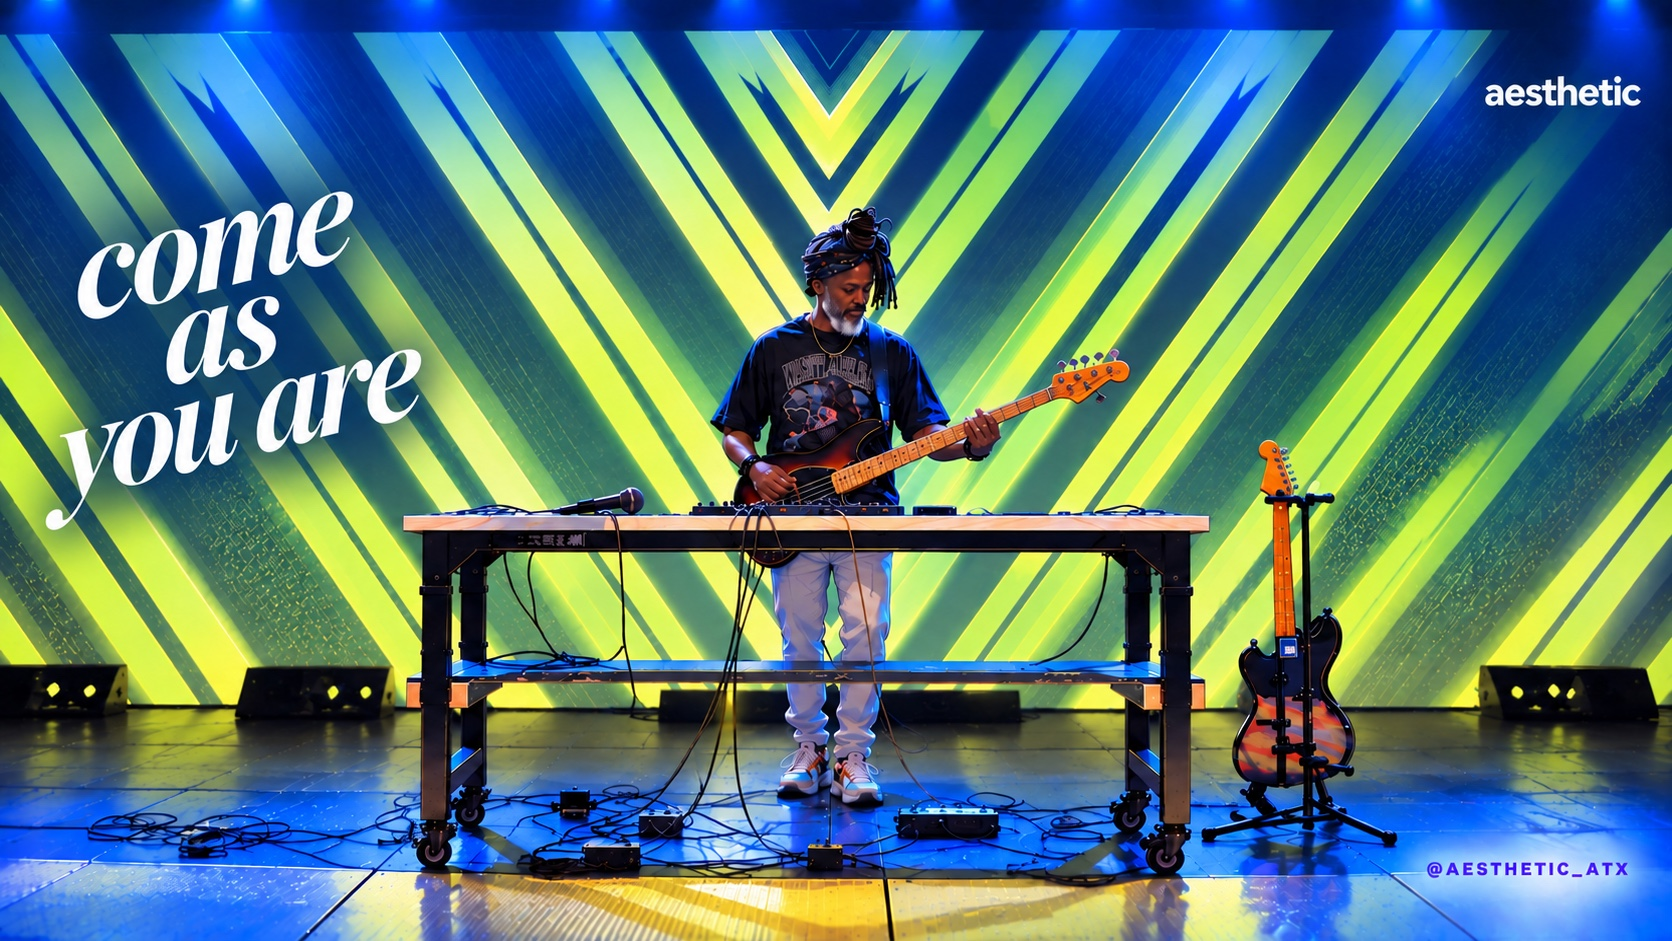
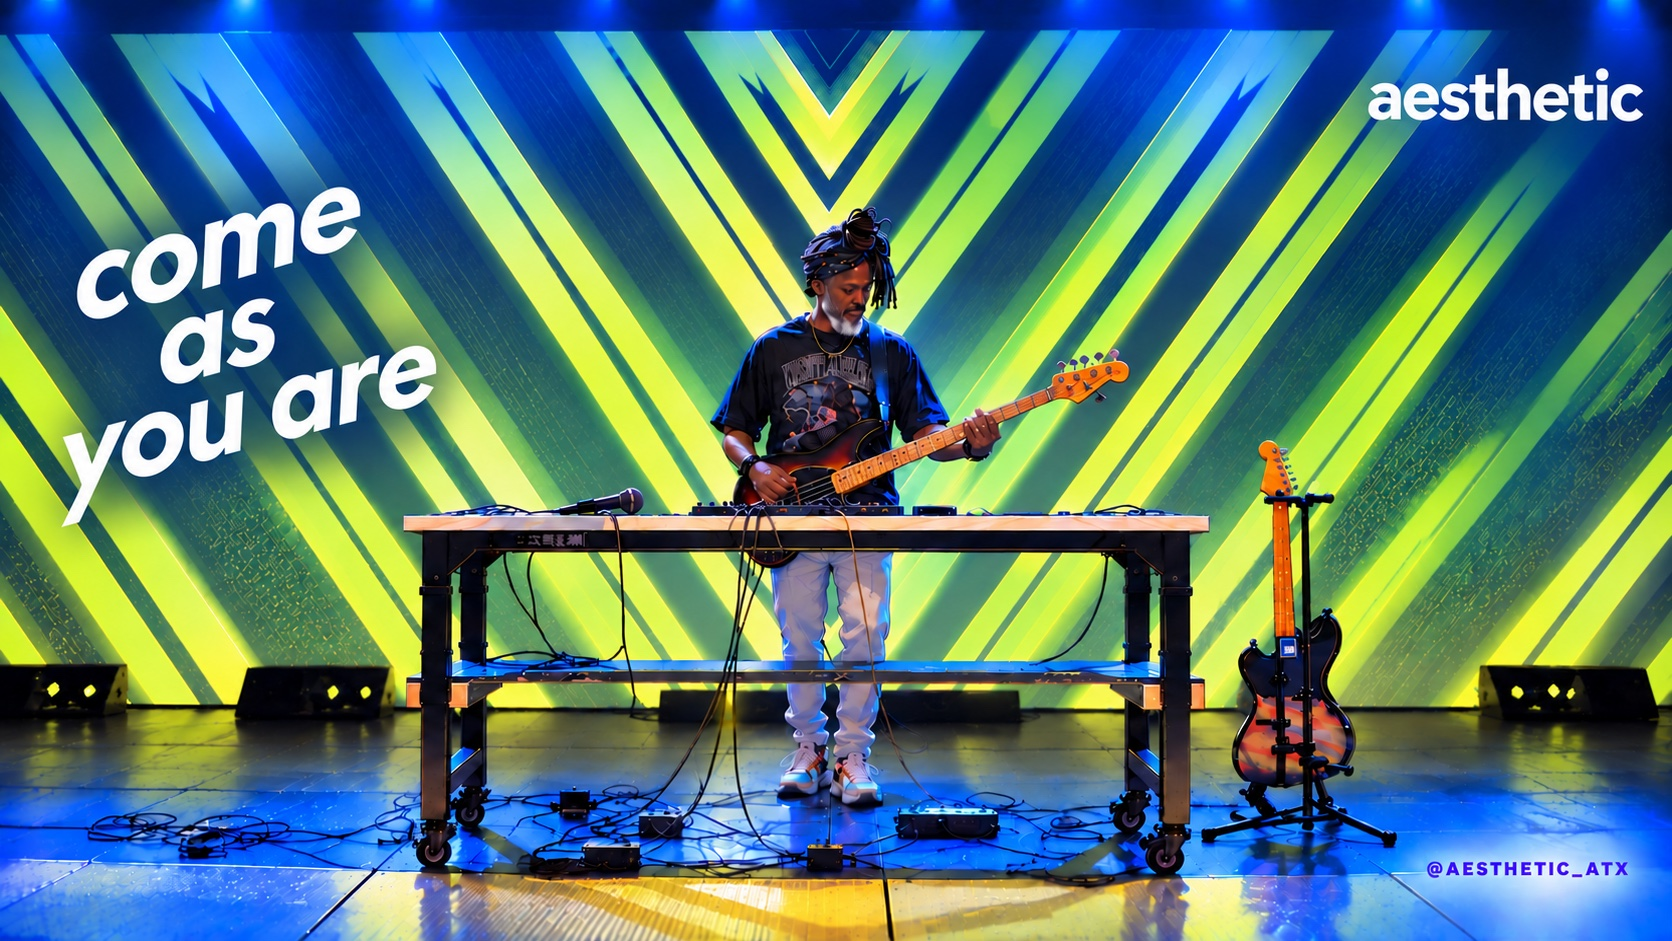
Hero: new photo plate with retyped lettering; anti-slop pass
The homepage hero image is replaced with "Hero Section Image (09/22).png"
(1672x941, same as before, so the plate and caption row are unchanged). The
church retyped "come as you are" and the wordmark in a sans face.

Anti-slop pass over all five pages against the brief's hard requirement:
no em dashes rendered, sentence case holds, placeholders stay labelled.
Cut "Take a next step" from the homepage statement line: stock church
phrasing, and mine rather than the church's. The two phrases left are from
the approved copy .docx.

diff --git a/app/page.tsx b/app/page.tsx
@@ -5,8 +5,10 @@ import { site } from "@/data/site";
 import { Message } from "@/components/Message";
 import { VisitTeaser } from "@/components/VisitTeaser";
 
-/** DUMMY COPY, drawn from the existing About text until the church writes the final line. */
-const statement = ["Explore faith", "Grow at your own pace", "Take a next step"];
+/** DUMMY COPY, drawn from the existing About text until the church writes the final line.
+ *  Both phrases come from the approved .docx. "Take a next step" was cut in the 2026-09-22
+ *  anti-slop pass: stock church phrasing, and it was mine, not the church's. */
+const statement = ["Explore faith", "Grow at your own pace"];
 
 export default function Home() {
   return (
@@ -18,7 +20,7 @@ export default function Home() {
           in the caption. */}
       <section className="hero" id="visit">
         <div className="hero-plate">
-          {/* Source: ~/Desktop/Hero Section (Testing #2).png (1672x941), supplied 2026-09-22. */}
+          {/* Source: ~/Desktop/Hero Section Image (09/22).png (1672x941), supplied 2026-09-22, retyped lettering. */}
           <Image
             src="/images/hero-full.jpg"
             alt="King Khary plays bass on stage at a table of pedals, in front of green and yellow chevron projections, beside the words come as you are"
